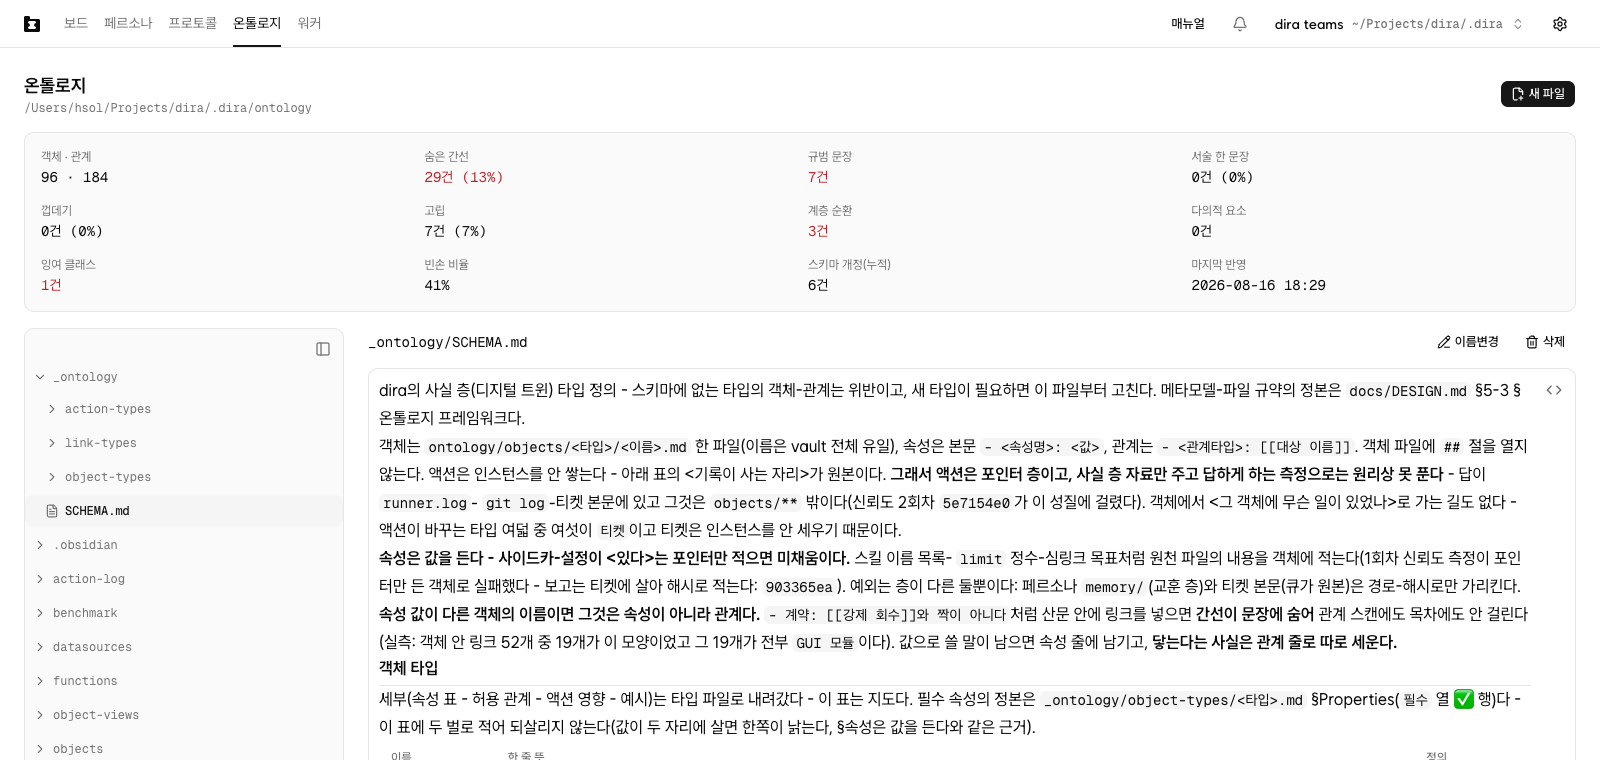
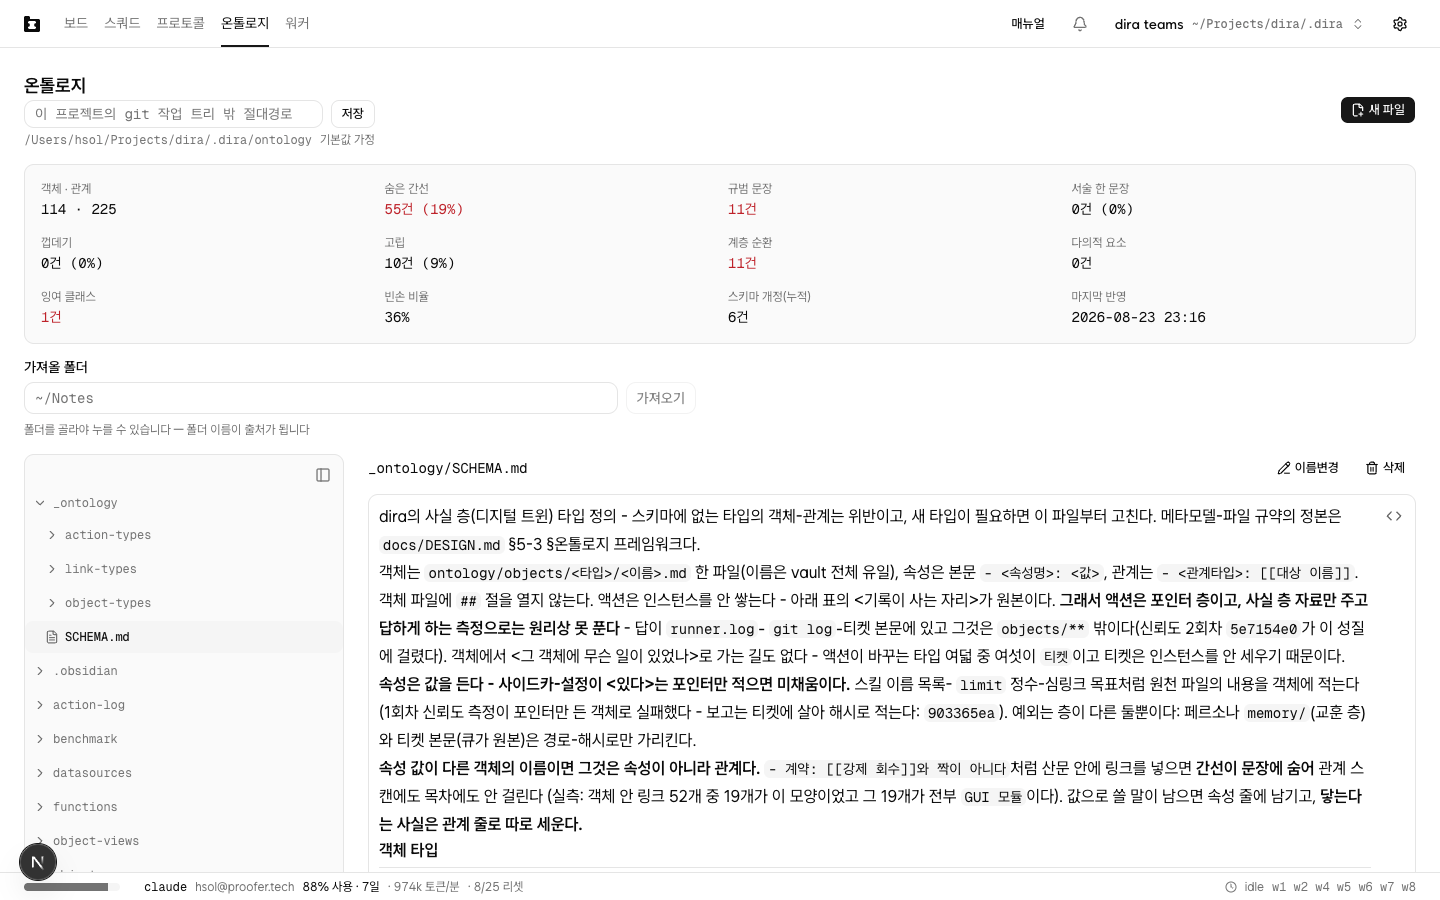
캡처(요구 458e6626 - 티켓 31e3043b): 온톨로지 화면 09-ontology.png가 자리 편집칸을 담는다
09-ontology.png를 c5d51522 뒤 화면으로 다시 찍어 제목 밑 자리 입력칸 + 저장이 프레임에
들게 하고, docs/ontology.md 첫 줄 alt 문장을 새 그림에 맞게 고쳤다. 지표 판 - 파일트리 -
위지윅 편집기 구도는 종전과 같다.

Ticket: 31e3043b

diff --git a/apps/teams/docs/ontology.md b/apps/teams/docs/ontology.md
@@ -1,6 +1,6 @@
 # 아카이빙과 온톨로지
 
-![온톨로지 화면. 제목 아래에 카드가 사는 폴더 경로가 있고, 그 밑 지표 판에 객체 · 관계를 비롯한 칸이 열두 개 있습니다. 아래는 왼쪽이 카드 파일트리, 오른쪽이 고른 파일 _ontology/SCHEMA.md를 위지윅으로 연 편집기입니다. 트리에서는 그 파일이 든 _ontology만 펴져 있고 나머지 디렉터리는 접힌 채입니다.](/shots/09-ontology.png)
+![온톨로지 화면. 제목 아래에 카드가 사는 자리를 바꾸는 입력칸과 `저장`이 있고, 그 밑 회색 글씨로 지금 카드가 사는 폴더 경로가 있습니다. 그 아래 지표 판에 객체 · 관계를 비롯한 칸이 열두 개 있습니다. 아래는 왼쪽이 카드 파일트리, 오른쪽이 고른 파일 _ontology/SCHEMA.md를 위지윅으로 연 편집기입니다. 트리에서는 그 파일이 든 _ontology만 펴져 있고 나머지 디렉터리는 접힌 채입니다.](/shots/09-ontology.png)
 
 티켓이 완료되면 그 일의 맥락은 티켓 본문 한 장에 남습니다. 무엇을 어떻게 했는지, 어떤 명령으로
 확인했는지가 `## 결과`에 적혀 있습니다. 문제는 다음 달입니다. 같은 자리를 건드리는 세션이 그
